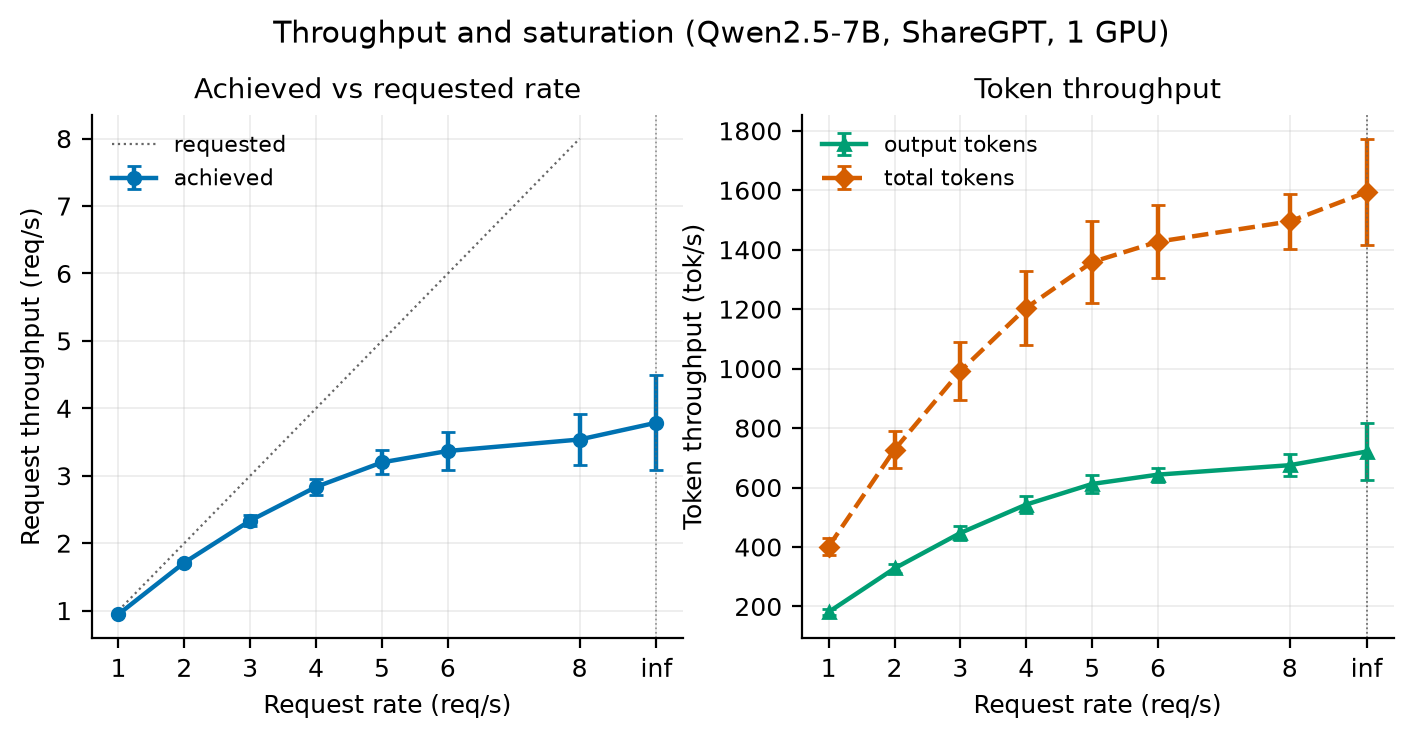
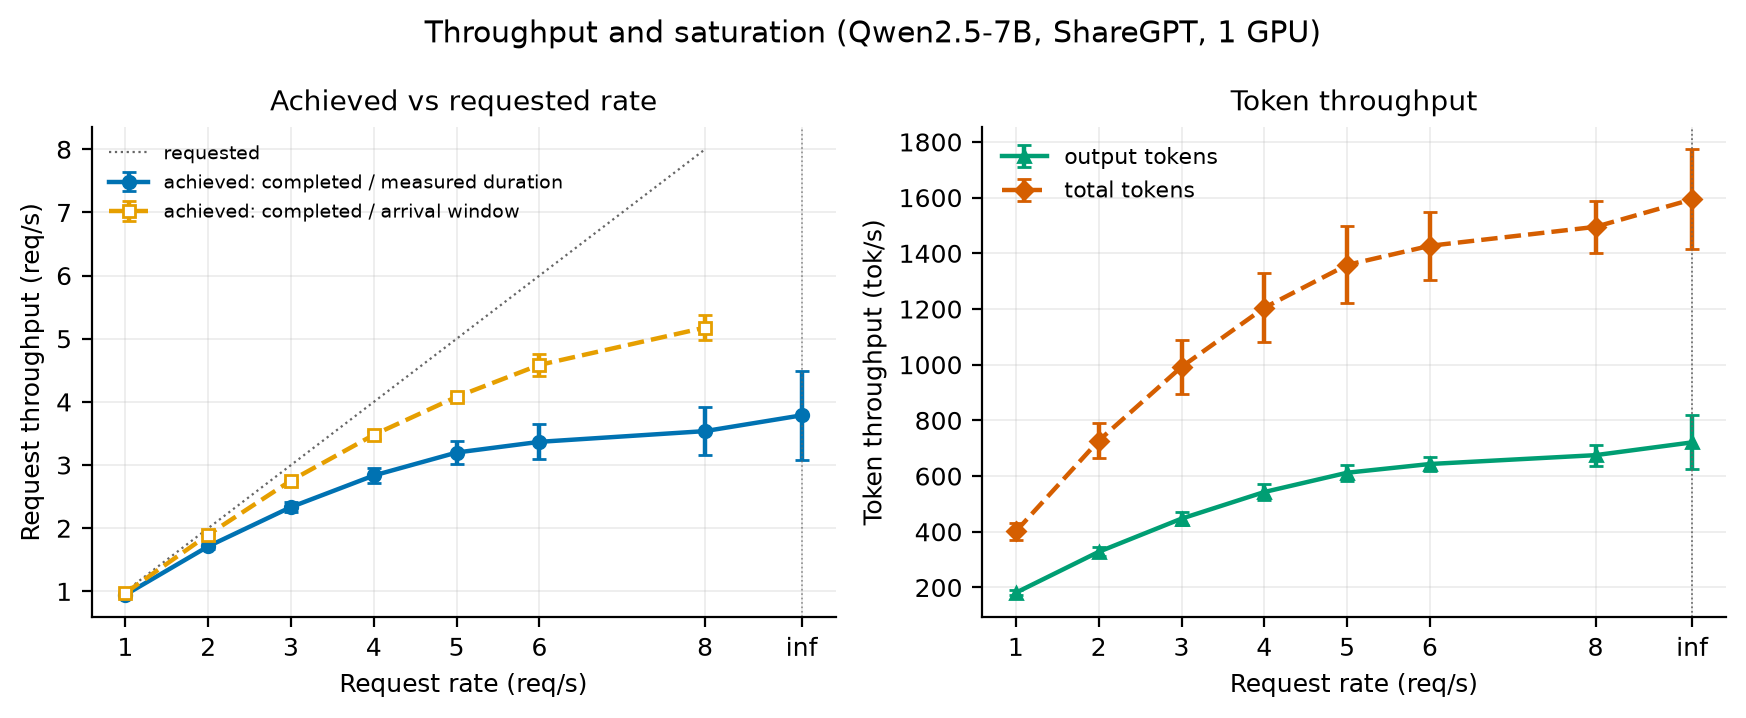
Figures: log-scale latency panels, CDF rebuild of figure 5, two throughput definitions in figure 3

diff --git a/scripts/plots/figs_sweep.py b/scripts/plots/figs_sweep.py
@@ -13,8 +13,20 @@ Error bars are the standard deviation over the 3 repetitions of each point
 
 import matplotlib.pyplot as plt
 
-from common import (C, MARKERS, SERIES, aggregate, annotate_inf, plot_series,
-                    save, select)
+import statistics as st
+
+from common import (C, MARKERS, SERIES, aggregate, annotate_inf, log_latency,
+                    phase_records, plot_series, save, select, xpos)
+
+# Panels for these fields get a log y-axis; see common.log_latency for why.
+# Throughput stays linear: it spans well under one order of magnitude, and the
+# ShareGPT/random crossing in figure 4 and the tp ordering in figure 7 are both
+# easiest to read on a linear scale.
+LOG_FIELDS = {"p50_ttft_ms", "p95_ttft_ms", "p99_ttft_ms",
+              "p50_tpot_ms", "p95_tpot_ms", "p99_tpot_ms",
+              "p50_itl_ms", "p95_itl_ms", "p99_itl_ms",
+              "mean_ttft_ms", "mean_tpot_ms", "mean_itl_ms",
+              "p50_e2el_ms", "p95_e2el_ms", "mean_e2el_ms"}
 
 
 def _panel(ax, runs, group, field, label, color, marker, ls="-"):
@@ -28,8 +40,9 @@ def fig01(runs, outdir):
     fig, ax = plt.subplots(figsize=(5.2, 3.4))
     _panel(ax, runs, "S1", "p50_ttft_ms", "p50", SERIES[0], MARKERS[0])
     _panel(ax, runs, "S1", "p95_ttft_ms", "p95", SERIES[1], MARKERS[1], "--")
+    log_latency(ax)
     ax.set_xlabel("Request rate (req/s)")
-    ax.set_ylabel("TTFT (ms)")
+    ax.set_ylabel("TTFT (ms, log scale)")
     ax.set_title("Time to first token vs arrival rate\nQwen2.5-7B, ShareGPT, 1 GPU")
     ax.legend(title="percentile")
     return save(fig, "fig01_ttft_vs_rate", outdir)
@@ -39,24 +52,85 @@ def fig02(runs, outdir):
     fig, (a1, a2) = plt.subplots(1, 2, figsize=(8.4, 3.4))
     _panel(a1, runs, "S1", "p50_tpot_ms", "p50", SERIES[0], MARKERS[0])
     _panel(a1, runs, "S1", "p95_tpot_ms", "p95", SERIES[1], MARKERS[1], "--")
-    a1.set_ylabel("TPOT (ms/token)")
+    a1.set_ylabel("TPOT (ms/token, log scale)")
     a1.set_title("Time per output token")
     _panel(a2, runs, "S1", "p50_itl_ms", "p50", SERIES[0], MARKERS[0])
     _panel(a2, runs, "S1", "p95_itl_ms", "p95", SERIES[1], MARKERS[1], "--")
-    a2.set_ylabel("ITL (ms)")
+    a2.set_ylabel("ITL (ms, log scale)")
     a2.set_title("Inter-token latency")
     for a in (a1, a2):
+        log_latency(a)
         a.set_xlabel("Request rate (req/s)")
         a.legend(title="percentile")
-    fig.suptitle("Decode-side latency vs arrival rate (Qwen2.5-7B, ShareGPT, 1 GPU)",
-                 y=1.02)
+    fig.suptitle("Decode-side latency vs arrival rate "
+                 "(Qwen2.5-7B, ShareGPT, 1 GPU)")
+    fig.tight_layout()
     return save(fig, "fig02_decode_latency_vs_rate", outdir)
 
 
+def _arrival_window_rate(runs, group):
+    """Completions inside the arrival window, divided by that window.
+
+    The client's own `request_throughput` is completed / (measurement
+    duration), and the measurement duration runs until the *last* request
+    finishes. That drain is 12 s at rate 1 and 32 s at rate 8 here, so the
+    reported rate is biased low at every point, including points where the
+    server is comfortably keeping up (0.95 at an offered rate of 1). Reading a
+    capacity off that curve therefore reads a definitional artefact (D24).
+
+    This alternative counts requests that completed at or before the last
+    arrival, over the arrival span. It removes the drain but introduces the
+    opposite bias: requests still in flight when arrivals stop are never
+    counted, which costs roughly rate x latency requests and grows with load.
+    Neither series is unbiased. Plotting both is the honest statement: the
+    achieved rate is definition-sensitive, and on this system - where vLLM
+    admits every arrival into the running batch, so backlog appears as batch
+    growth rather than as a queue - achieved throughput is a weak saturation
+    detector. The saturation argument rests on latency (figure 1) and on the
+    closed-loop curve (figure 10).
+    """
+    out = []
+    by_rate = {}
+    for run in select(runs, group=group):
+        rate = str(run.get("request_rate"))
+        if rate == "inf":
+            continue
+        recs = phase_records(run, "requests")
+        if not recs:
+            continue
+        arrivals = [r["arrival_ts"] for r in recs if "arrival_ts" in r]
+        if not arrivals:
+            continue
+        t0, t1 = min(arrivals), max(arrivals)
+        span = t1 - t0
+        if span <= 0:
+            continue
+        done = sum(1 for r in recs if r["ts"] <= t1)
+        by_rate.setdefault(rate, []).append(done / span)
+    for rate, vals in by_rate.items():
+        m = st.mean(vals)
+        e = st.stdev(vals) if len(vals) > 1 else 0.0
+        out.append((rate, m, e, len(vals)))
+    out.sort(key=lambda p: float(p[0]))
+    return out
+
+
 def fig03(runs, outdir):
-    fig, (a1, a2) = plt.subplots(1, 2, figsize=(8.4, 3.4))
-    pts = _panel(a1, runs, "S1", "request_throughput", "achieved",
+    fig, (a1, a2) = plt.subplots(1, 2, figsize=(8.8, 3.6))
+    pts = _panel(a1, runs, "S1", "request_throughput",
+                 "achieved: completed / measured duration",
                  SERIES[0], MARKERS[0])
+    # Second definition of the same quantity, drain excluded; see
+    # _arrival_window_rate for why both are shown and neither is unbiased.
+    aw = _arrival_window_rate(runs, "S1")
+    if aw:
+        xs_aw, _ = xpos(pts)
+        xmap = {p[0]: x for p, x in zip(pts, xs_aw)}
+        xs2 = [xmap[p[0]] for p in aw if p[0] in xmap]
+        a1.errorbar(xs2, [p[1] for p in aw], yerr=[p[2] for p in aw],
+                    color=SERIES[1], marker=MARKERS[1], linestyle="--",
+                    markerfacecolor="white",
+                    label="achieved: completed / arrival window")
     # Reference line: achieved == requested. Departure marks saturation.
     finite = [(float(p[0]), p[1]) for p in pts if p[0] != "inf"]
     if finite:
@@ -64,7 +138,7 @@ def fig03(runs, outdir):
         a1.plot(xs, xs, color=C["grey"], lw=0.8, ls=":", label="requested")
     a1.set_ylabel("Request throughput (req/s)")
     a1.set_title("Achieved vs requested rate")
-    a1.legend()
+    a1.legend(fontsize=7)
     _panel(a2, runs, "S1", "output_throughput", "output tokens",
            SERIES[2], MARKERS[2])
     _panel(a2, runs, "S1", "total_token_throughput", "total tokens",
@@ -74,7 +148,8 @@ def fig03(runs, outdir):
     a2.legend()
     for a in (a1, a2):
         a.set_xlabel("Request rate (req/s)")
-    fig.suptitle("Throughput and saturation (Qwen2.5-7B, ShareGPT, 1 GPU)", y=1.02)
+    fig.suptitle("Throughput and saturation (Qwen2.5-7B, ShareGPT, 1 GPU)")
+    fig.tight_layout()
     return save(fig, "fig03_throughput_vs_rate", outdir)
 
 
@@ -89,10 +164,14 @@ def _overlay(runs, outdir, groups, names, title, name, fields=None):
         for i, (g, nm) in enumerate(zip(groups, names)):
             _panel(ax, runs, g, field, nm, SERIES[i], MARKERS[i],
                    "-" if i == 0 else "--")
+        if field in LOG_FIELDS:
+            log_latency(ax)
+            ylabel = ylabel.replace(")", ", log scale)")
         ax.set_xlabel("Request rate (req/s)")
         ax.set_ylabel(ylabel)
-        ax.legend()
-    fig.suptitle(title, y=1.02)
+        ax.legend(fontsize=8)
+    fig.suptitle(title)
+    fig.tight_layout()
     return save(fig, name, outdir)
 
 

diff --git a/scripts/plots/fig05_datasets.py b/scripts/plots/fig05_datasets.py
@@ -58,28 +58,66 @@ def fig05(stats_path="results/dataset_stats.json", outdir="figures", repo="."):
     stats = json.loads(p.read_text())
     real = _realised(repo)
 
-    fig, (a1, a2) = plt.subplots(1, 2, figsize=(8.6, 3.4))
+    fig, (a1, a2) = plt.subplots(1, 2, figsize=(9.4, 4.0))
     colors = {"sharegpt": C["blue"], "random": C["orange"]}
+
+    # Cumulative distributions on a log x-axis, not density histograms. A
+    # histogram cannot show these two workloads on one pair of axes: `random`
+    # is a fixed length, so its density is a delta spike that owns the entire
+    # y-axis and flattens the ShareGPT curve to invisibility (in the first
+    # version of this figure only one of the four series was actually
+    # visible), while the nominal ShareGPT tail at 66 076 tokens stretches the
+    # x-axis until the realised data - the part that was actually served -
+    # occupies 1.5 % of the panel. A CDF has a bounded y-axis, renders a fixed
+    # length as a clean step, and on a log x-axis carries four orders of
+    # magnitude at once.
+    def cdf(ax, vals, color, ls, label, lw=1.6, alpha=1.0, z=2):
+        vals = sorted(v for v in vals if v > 0)
+        if not vals:
+            return
+        n = len(vals)
+        ax.step(vals, [(i + 1) / n for i in range(n)], where="post",
+                color=color, linestyle=ls, linewidth=lw, alpha=alpha,
+                zorder=z, label=label)
+
     for name, d in stats.items():
         col = colors.get(name, C["green"])
         for ax, key in ((a1, "input_lens"), (a2, "output_lens")):
-            vals = d.get(key) or []
-            if not vals:
-                continue
-            ax.hist(vals, bins=60, histtype="step", linewidth=1.5,
-                    color=col, label=f"{name} nominal (n={len(vals)})",
-                    density=True)
+            cdf(ax, d.get(key) or [], col, "-", f"{name} nominal (source file)")
         rv = real.get(name)
         if rv:
             for ax, key in ((a1, "input_lens"), (a2, "output_lens")):
-                ax.hist(rv[key], bins=60, histtype="stepfilled", alpha=0.35,
-                        color=col, density=True,
-                        label=f"{name} realised (n={len(rv[key])})")
+                cdf(ax, rv[key], col, "--", f"{name} realised (served)",
+                    lw=3.2, alpha=0.45, z=1)
+
     for ax, t in ((a1, "Input (prompt) length"), (a2, "Output length")):
-        ax.set_xlabel("tokens")
-        ax.set_ylabel("density")
+        ax.set_xscale("log")
+        ax.set_xlabel("tokens (log scale)")
+        ax.set_ylabel("fraction of requests <= x")
+        ax.set_ylim(0, 1.02)
         ax.set_title(t)
-        ax.legend()
+        ax.grid(True, which="minor", alpha=0.12)
+        for level in (0.5, 0.95):
+            ax.axhline(level, color=C["grey"], lw=0.6, ls=":", alpha=0.7)
+        ax.legend(fontsize=7, loc="upper left", frameon=False)
+
+    # The harness admits prompts of roughly 1024 tokens or fewer (D26). This is
+    # where the nominal and realised ShareGPT curves separate, and it is why
+    # plotting the nominal distribution alone overstates the served tail by 65x.
+    a1.axvline(1024, color=C["grey"], lw=0.8, ls="-.", alpha=0.8)
+    # Label the cutoff with rotated text beside the line rather than with a
+    # leader arrow: an arrow from any free area to the separation point at
+    # (1024, ~0.96) has to cross the panel diagonally and clips the legend.
+    # Below y~0.9 the region right of x~300 is empty, so the label sits there.
+    a1.text(1180, 0.06, "harness admission cutoff ~1024 tokens",
+            rotation=90, va="bottom", ha="left", fontsize=7, color=C["grey"])
+    # Only the prompt length is filtered; on the output side nominal and
+    # realised lie on top of each other, which is itself the statement. Placed
+    # bottom-left, clear of the legend in the upper-left corner.
+    a2.annotate("no filtering on the output side:\n"
+                "nominal and realised coincide",
+                xy=(0.03, 0.06), xycoords="axes fraction", fontsize=7,
+                color=C["grey"])
 
     # A short numeric summary is more useful in a paper than the shape alone.
     def q(v, f):
@@ -89,22 +127,25 @@ def fig05(stats_path="results/dataset_stats.json", outdir="figures", repo="."):
     lines = []
     for name, d in stats.items():
         st_ = d.get("summary", {})
-        if st_:
-            lines.append(f"{name} nominal: input p50 {st_.get('input_p50', '?')}, "
-                         f"p95 {st_.get('input_p95', '?')}, max "
-                         f"{st_.get('input_max', '?')}; output p50 "
-                         f"{st_.get('output_p50', '?')}, p95 "
-                         f"{st_.get('output_p95', '?')}")
         rv = real.get(name)
+        if st_:
+            lines.append(
+                f"{name:9s} nominal   in p50 {st_.get('input_p50','?'):>5} "
+                f"p95 {st_.get('input_p95','?'):>5} max {st_.get('input_max','?'):>6}"
+                f"  |  out p50 {st_.get('output_p50','?'):>5} "
+                f"p95 {st_.get('output_p95','?'):>5}")
         if rv:
             i, o = rv["input_lens"], rv["output_lens"]
-            lines.append(f"{name} realised: input p50 {q(i, .5)}, p95 {q(i, .95)}, "
-                         f"max {max(i)}; output p50 {q(o, .5)}, p95 {q(o, .95)}")
+            lines.append(
+                f"{name:9s} realised  in p50 {q(i,.5):>5} p95 {q(i,.95):>5} "
+                f"max {max(i):>6}  |  out p50 {q(o,.5):>5} p95 {q(o,.95):>5} "
+                f"max {max(o):>6}")
     if lines:
-        fig.text(0.5, -0.12, "\n".join(lines), ha="center", fontsize=8,
-                 color=C["grey"])
+        fig.subplots_adjust(bottom=0.34)
+        fig.text(0.5, 0.015, "\n".join(lines), ha="center", va="bottom",
+                 fontsize=7, family="monospace", color=C["grey"])
 
-    fig.suptitle("Token-length distributions of the two workloads", y=1.02)
+    fig.suptitle("Token-length distributions of the two workloads: source file vs actually served")
     return save(fig, "fig05_dataset_distributions", outdir)
 
 

diff --git a/scripts/plots/common.py b/scripts/plots/common.py
@@ -35,6 +35,8 @@ import matplotlib
 
 matplotlib.use("Agg")
 import matplotlib.pyplot as plt  # noqa: E402
+from matplotlib.ticker import (LogLocator, NullFormatter,  # noqa: E402
+                               ScalarFormatter)
 
 # --------------------------------------------------------------------------
 # style
@@ -256,6 +258,32 @@ def annotate_inf(ax, points):
     if any(p[0] == "inf" for p in points):
         xs, _ = xpos(points)
         ax.axvline(xs[-1], color=C["grey"], lw=0.6, ls=":", alpha=0.7)
+
+
+def log_latency(ax):
+    """Put a latency axis on a log scale, with readable (non-exponent) ticks.
+
+    Latency in these sweeps spans two orders of magnitude once the offline
+    point shares the axis: on 7B/ShareGPT the p95 TTFT is 151 ms at rate 1,
+    245 ms at rate 8 and 6767 ms at rate inf. On a linear axis the entire
+    finite-rate range - the part that answers "how does the arrival rate
+    affect latency" - is pressed into the bottom 3 % of the panel and reads as
+    a flat line, so the figure appears to claim that latency is constant up to
+    capacity and then explodes. It is not: p95 TTFT rises 62 % across the
+    finite grid, and the ShareGPT/random gap at rate 8 (245 vs 211 ms) is a
+    result of its own. A log axis raises the finite-rate share of the panel
+    from 3 % to 24 %, keeps the offline point visible, and separates p50 from
+    p95 (a factor of ~2) which the linear axis also hides.
+
+    Major ticks at 1, 2 and 5 per decade so a two-decade range still carries
+    enough labels to read values off the axis.
+    """
+    ax.set_yscale("log")
+    ax.yaxis.set_major_locator(LogLocator(base=10.0, subs=(1.0, 2.0, 5.0),
+                                          numticks=12))
+    ax.yaxis.set_major_formatter(ScalarFormatter())
+    ax.yaxis.set_minor_formatter(NullFormatter())
+    ax.grid(True, which="minor", axis="y", alpha=0.12)
 
 
 # --------------------------------------------------------------------------

diff --git a/README.md b/README.md
@@ -233,3 +233,45 @@
   only figure drawing on the step log's phase split, and it is where the assignment's
   "time and resource usage during the prefill phase and the decode phase" requirement meets
   the "parallel processing options" requirement. The smoke test now expects 11 figures
+- D47 (2026-08-01): **Latency panels moved to a log y-axis; figure 5 rebuilt as a CDF.**
+  Reviewing the rendered figures against the underlying numbers exposed two presentation
+  faults that changed what the figures appeared to claim.
+  *Latency panels (fig01, fig02, fig04-left, fig06-left/middle, fig07-left/middle).* Once
+  the offline (`inf`) point shares an axis with the finite rates, the range is ~90x
+  (151 ms at rate 1 to 6767 ms offline on 7B/ShareGPT). On a linear axis the whole finite
+  grid occupied ~1 % of the panel and rendered as a flat line, so figure 1 read as "TTFT is
+  constant until capacity, then explodes". It is not: p95 TTFT rises 62 % from rate 1 to
+  rate 8, and figure 4's dataset gap at rate 8 (ShareGPT 245 ms vs random 211 ms) was
+  invisible for the same reason. A log axis with ticks at 1/2/5 per decade raises the
+  finite-rate share to ~10-14 % and separates p50 from p95. Throughput panels stay linear:
+  they span well under one order of magnitude, and the ShareGPT/random crossing near rate 5
+  in figure 4 and the tp ordering in figure 7 read best on a linear scale.
+  *Figure 5.* The density histogram could not show these two workloads together. `random`
+  is a fixed length, so its density is a delta spike that owned the y-axis and flattened
+  both ShareGPT curves to invisibility - four series were drawn and one was visible - while
+  the nominal ShareGPT tail (66 076 tokens) stretched the x-axis until the served data
+  occupied 1.5 % of the panel, and the numeric caption collided with the axis labels.
+  Rebuilt as a cumulative distribution on a log x-axis: bounded y, fixed lengths render as
+  clean steps, four orders of magnitude fit, and the nominal/realised separation at the
+  ~1024-token admission cutoff (D26) is now the visible feature it should always have been
+- D48 (2026-08-01): **Figure 3 now plots two definitions of "achieved rate", and the
+  saturation argument is moved off it.** D24 established that the client's
+  `request_throughput` is completed / measured-duration, and that the measured duration
+  runs to the *last* completion. Measured on S1 that drain is 12.2 s at rate 1 and 32.1 s
+  at rate 8, so the reported rate is biased low at every point - 0.95 at an offered rate of
+  1, where the server is plainly keeping up. A reader taking a capacity off that curve
+  reads a definitional artefact.
+  The alternative - completions at or before the last arrival, over the arrival span -
+  gives a materially different curve: 0.97 / 1.90 / 2.75 / 3.48 / 4.08 / 4.59 / 5.18 at
+  rates 1-8, against 0.95 / 1.71 / 2.33 / 2.83 / 3.20 / 3.37 / 3.54 for the client metric.
+  The first plateaus near 3.5; the second is still climbing at rate 8. It is not unbiased
+  either: requests in flight when arrivals stop are never counted, a loss of roughly
+  rate x latency that grows with load.
+  Both are drawn. Neither is the capacity. The substantive point is that on this system
+  achieved throughput is a weak saturation detector at all: vLLM admits every arrival into
+  the running batch, so backlog appears as batch growth and rising latency rather than as a
+  queue or a throughput ceiling (queueing delay is ~0 everywhere in session A). The
+  saturation claim therefore rests on latency (figure 1: p95 TTFT +62 % across the finite
+  grid) and on the closed-loop curve (figure 10), with figure 3 reporting what the standard
+  tool reports and showing how far that depends on the definition. This closes the
+  operational-definition task that PLAN scheduled for 8/3
